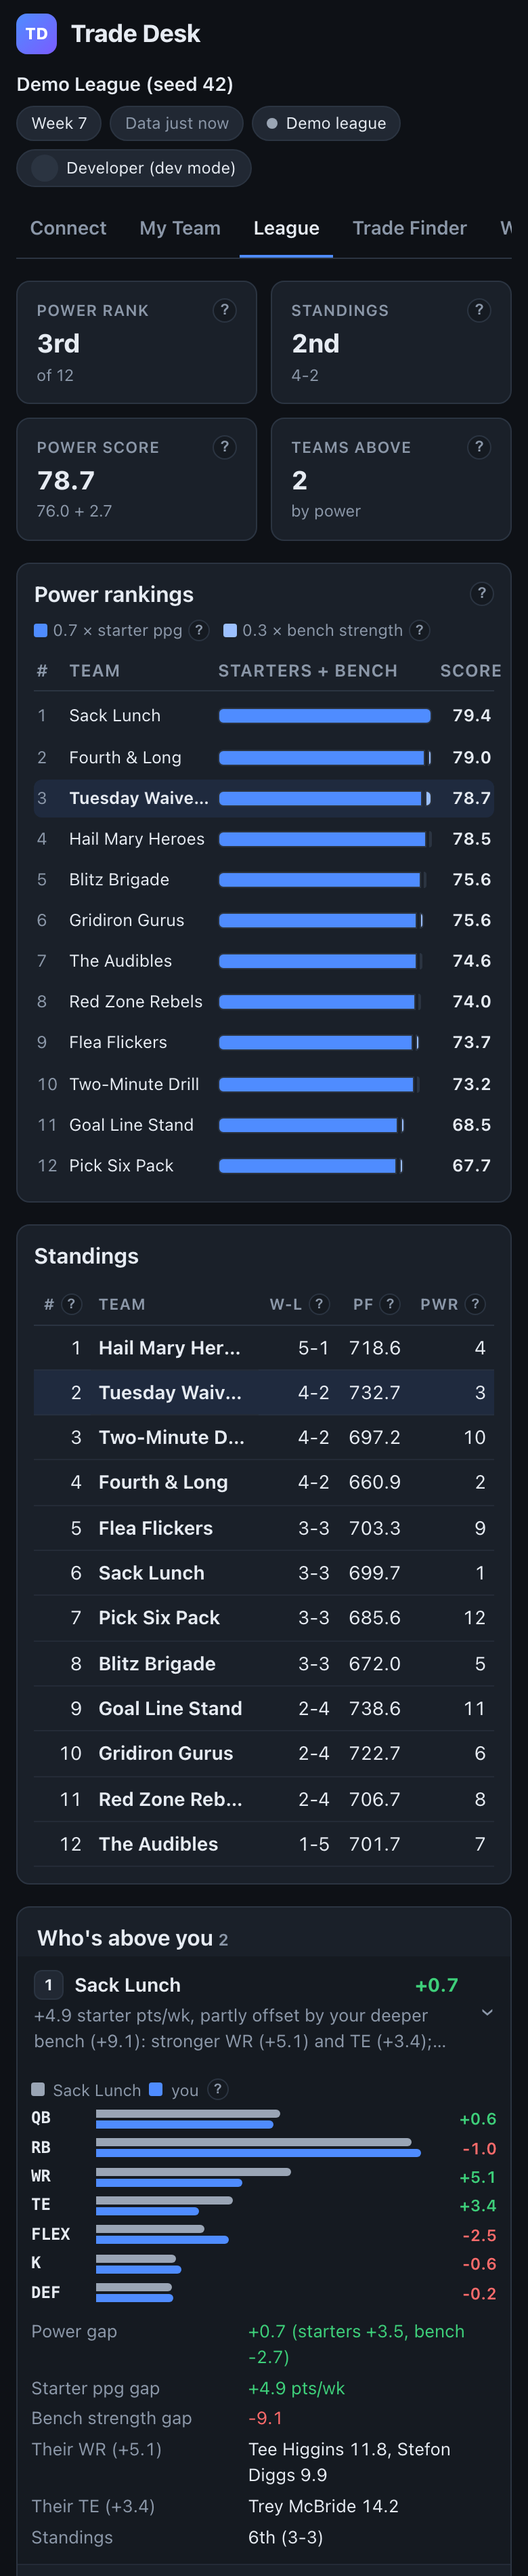
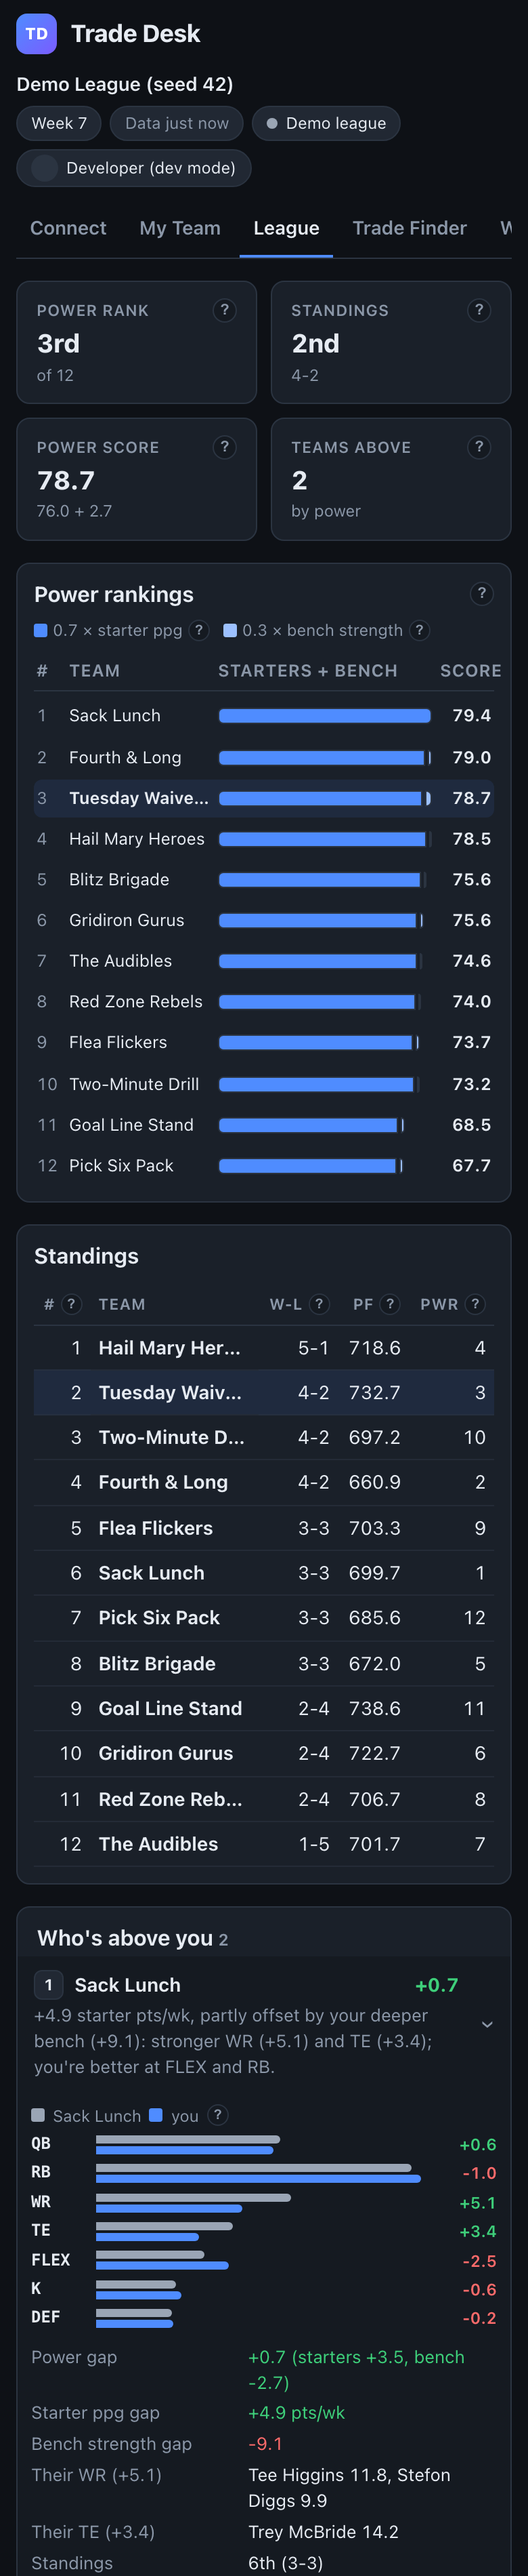
Shared Stat card (My Team + League); open League rows show the full summary on phones; screenshots
Claude-Session: https://claude.ai/code/session_01DhTsPARUt8isFrwSSuv77K

diff --git a/web/src/styles.css b/web/src/styles.css
@@ -202,7 +202,7 @@ select:focus, input:focus, button:focus-visible { outline: 2px solid var(--accen
 .stat-label { font-size: 11.5px; color: var(--muted); text-transform: uppercase; letter-spacing: 0.04em; font-weight: 600; }
 .stat-value { font-size: 22px; font-weight: 750; margin-top: 2px; font-variant-numeric: tabular-nums; }
 .stat-sub { font-size: 12px; color: var(--muted); }
-.stat-link { font: inherit; color: inherit; text-align: left; cursor: pointer; }
+.stat-link { font: inherit; color: inherit; text-align: left; cursor: pointer; display: block; width: 100%; }
 .stat-link:hover { border-color: var(--accent-2); }
 .stat-link .stat-sub { color: var(--accent); }
 .bench-list { list-style: none; padding: 0; margin: 0; display: flex; flex-direction: column; gap: 6px; }
@@ -410,6 +410,7 @@ select:focus, input:focus, button:focus-visible { outline: 2px solid var(--accen
   .lg-row .lg-gap { grid-area: gap; }
   .lg-row .xrow-chevron { grid-area: chev; }
   .lg-row .lg-summary { grid-area: summary; color: var(--muted); display: -webkit-box; -webkit-line-clamp: 2; -webkit-box-orient: vertical; overflow: hidden; }
+  .lg-row.open .lg-summary { -webkit-line-clamp: unset; }
   .lg-standings td.lg-name { max-width: 120px; }
   .lg-standings th, .lg-standings td { padding: 6px 4px; }
 }

diff --git a/web/src/tabs/LeagueTab.tsx b/web/src/tabs/LeagueTab.tsx
@@ -2,7 +2,7 @@
 // collapsed rows (summary line → mini chart + bullets on tap).
 import { api, type Active, type Analysis } from "../api";
 import type { LeagueTeamRow, TeamComparison } from "../../../server/model/league";
-import { ErrorBox, Loading, Why } from "../components/common";
+import { ErrorBox, Loading, Stat, Why } from "../components/common";
 import { DetailList, ExpandableList, ExpandableRow, type DetailLine } from "../components/ExpandableRow";
 import { deltaClass, f1, ordinal, signed } from "../lib/format";
 import { useAsync } from "../lib/useAsync";
@@ -67,19 +67,6 @@ export function LeagueTab({ active }: { analysis: Analysis; active: Active & { t
           <CompareList rows={v.below} label="Teams below you" />
         </section>
       )}
-    </div>
-  );
-}
-
-function Stat({ label, value, sub, why }: { label: string; value: string; sub?: string; why: string }) {
-  return (
-    <div className="stat" title={why}>
-      <div className="stat-label row between">
-        <span>{label}</span>
-        <Why text={why} />
-      </div>
-      <div className="stat-value">{value}</div>
-      {sub && <div className="stat-sub">{sub}</div>}
     </div>
   );
 }

diff --git a/web/src/tabs/MyTeamTab.tsx b/web/src/tabs/MyTeamTab.tsx
@@ -1,5 +1,5 @@
 import type { Analysis, VP } from "../api";
-import { Empty, PosBadge } from "../components/common";
+import { Empty, PosBadge, Stat } from "../components/common";
 import { BenchList, LineupTable } from "../components/LineupTable";
 import { InjuryDot } from "../components/PlayerChip";
 import { PositionStrength } from "../components/PositionStrength";
@@ -127,25 +127,6 @@ export function MyTeamTab({ analysis, onOpenLeague }: { analysis: Analysis; onOp
       </div>
 
       {analysis.notes && analysis.notes.length > 0 && <p className="muted small footnote">{analysis.notes.join(" · ")}</p>}
-    </div>
-  );
-}
-
-function Stat({ label, value, sub, why, onClick }: { label: string; value: string; sub?: string; why?: string; onClick?: () => void }) {
-  const body = (
-    <>
-      <div className="stat-label">{label}</div>
-      <div className="stat-value">{value}</div>
-      {sub && <div className="stat-sub">{sub}</div>}
-    </>
-  );
-  return onClick ? (
-    <button type="button" className="stat stat-link" title={why} onClick={onClick}>
-      {body}
-    </button>
-  ) : (
-    <div className="stat" title={why}>
-      {body}
     </div>
   );
 }

diff --git a/web/src/components/common.tsx b/web/src/components/common.tsx
@@ -77,3 +77,26 @@ export function RankBadge({ rank, of }: { rank: number; of: number }) {
     </span>
   );
 }
+
+/** Headline number card (stat row). `why` = one-sentence tooltip with a tappable "?"; `onClick` makes it a link. */
+export function Stat({ label, value, sub, why, onClick }: { label: string; value: string; sub?: string; why?: string; onClick?: () => void }) {
+  const body = (
+    <>
+      <div className="stat-label row between">
+        <span>{label}</span>
+        {!onClick && <Why text={why} />}
+      </div>
+      <div className="stat-value">{value}</div>
+      {sub && <div className="stat-sub">{sub}</div>}
+    </>
+  );
+  return onClick ? (
+    <button type="button" className="stat stat-link" title={why} onClick={onClick}>
+      {body}
+    </button>
+  ) : (
+    <div className="stat" title={why}>
+      {body}
+    </div>
+  );
+}
